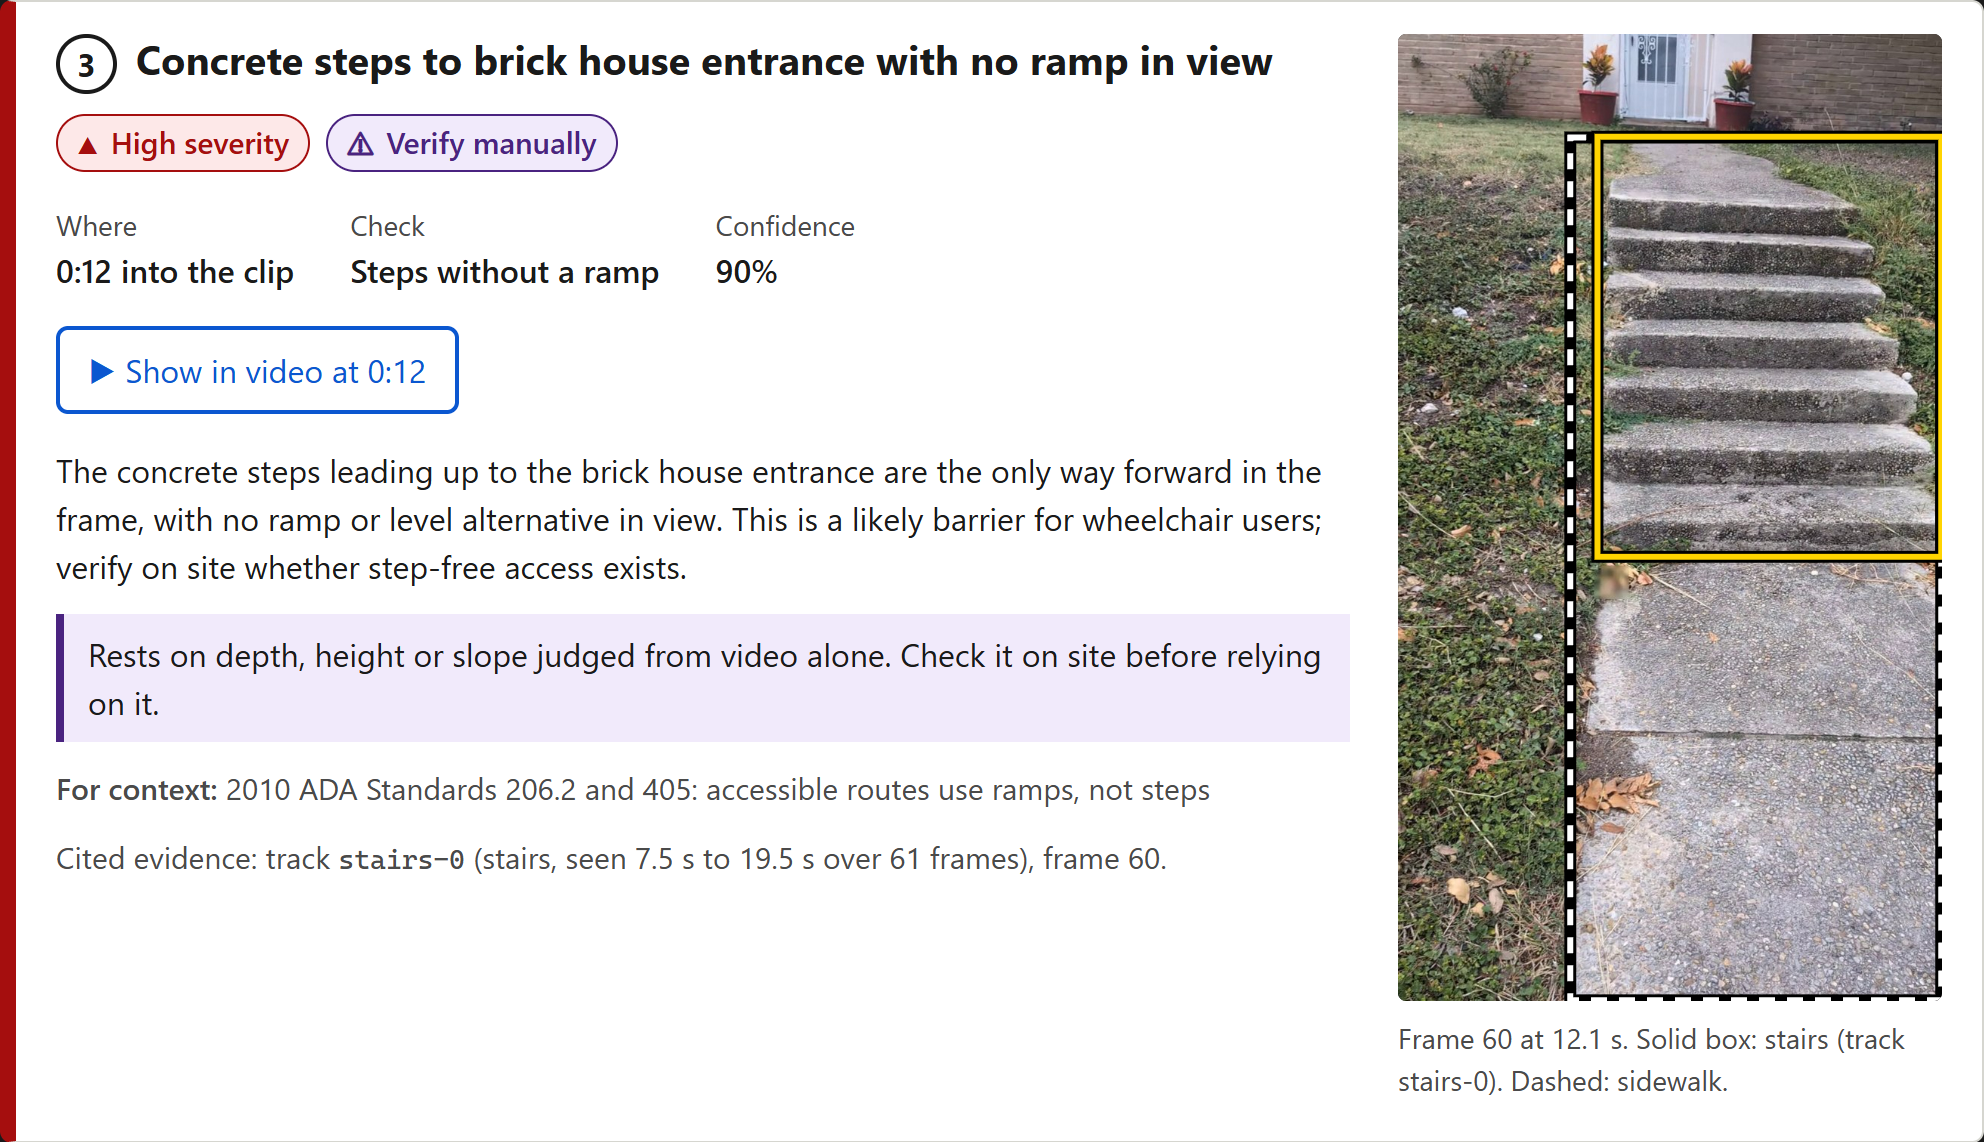
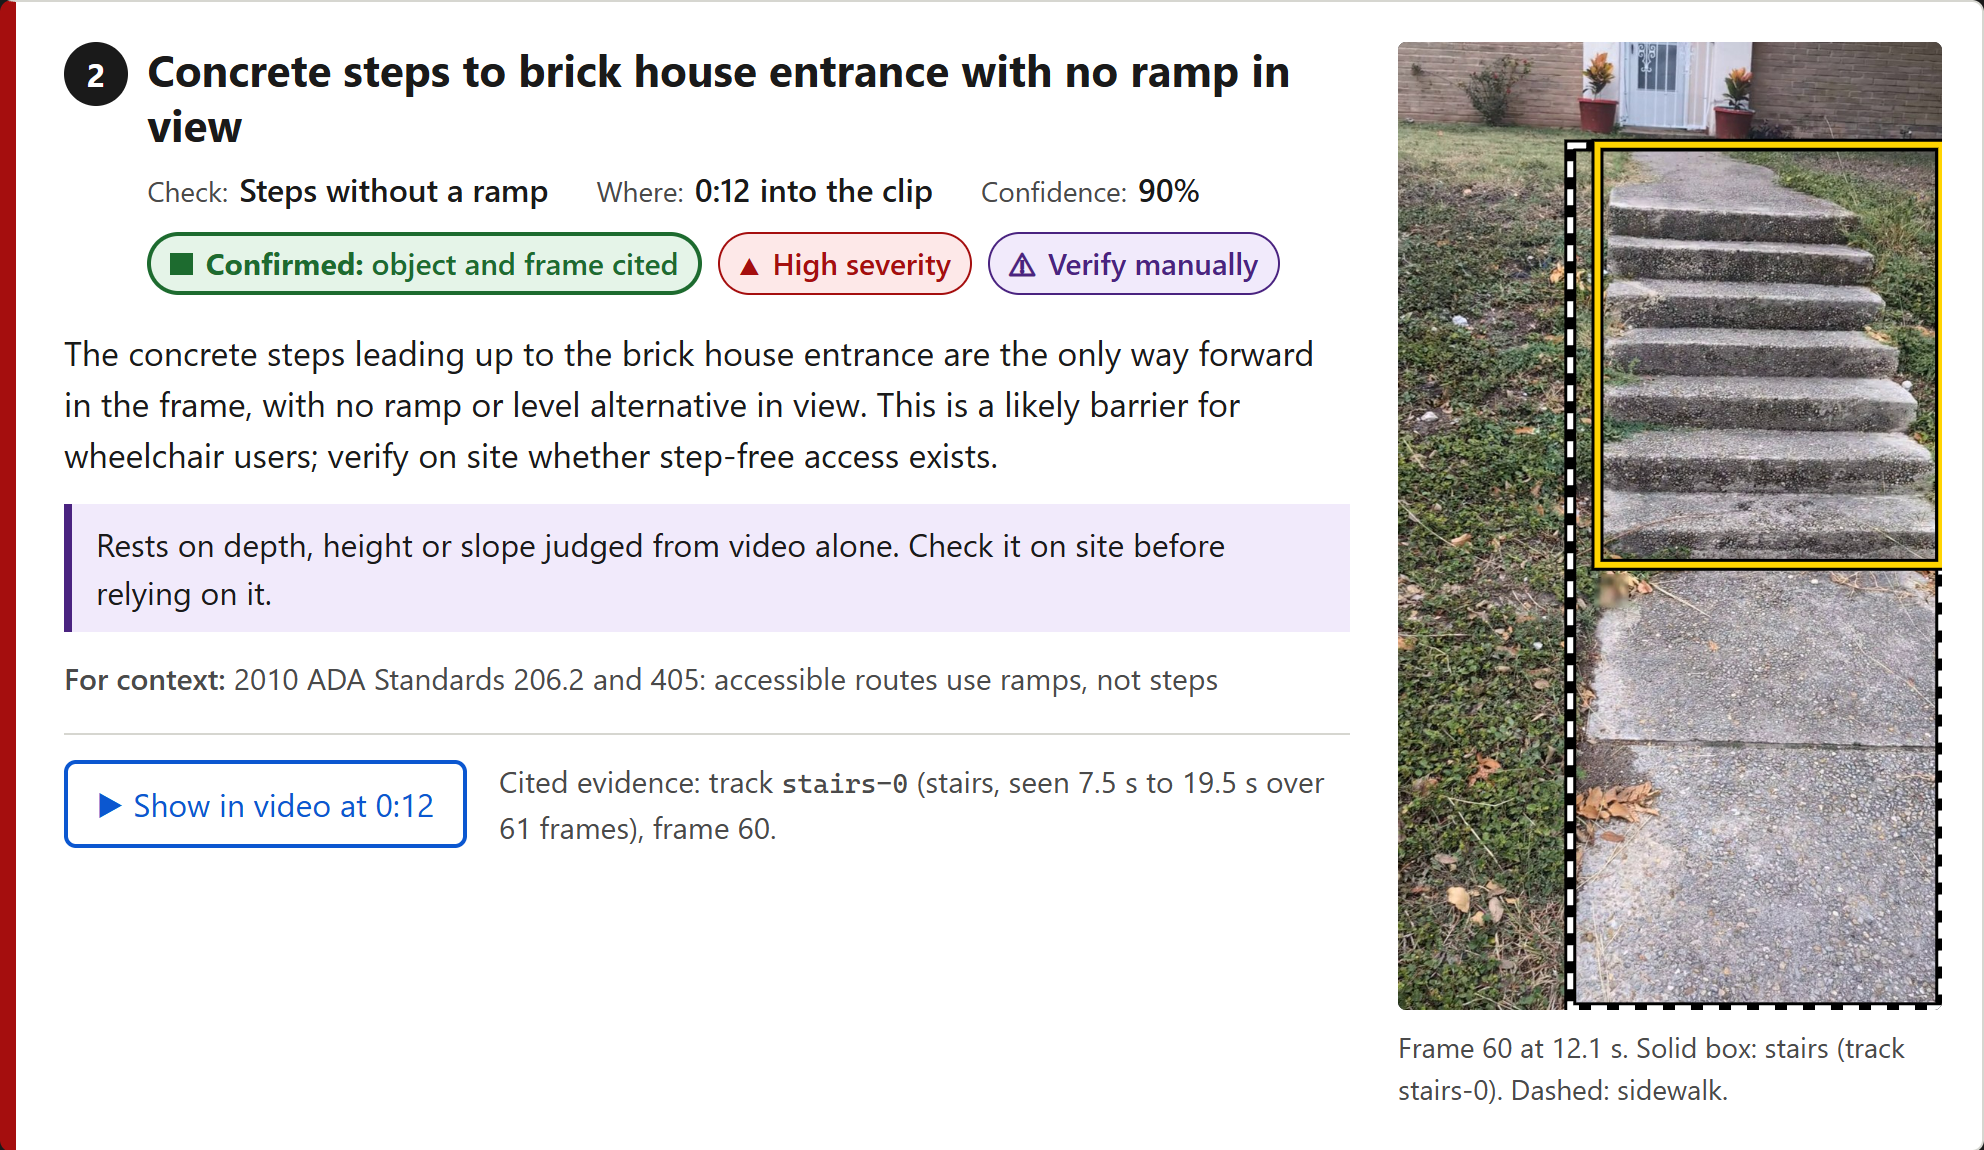
Health reports the review stage's model; README screenshot on the new finding card
/api/health said baseten / Muse Spark Open even though the two-tier review runs
on Muse Spark 1.3. review.review_model() now names the host and model of the
selected review. PROGRESS: d10-tier-badge and d10-merge-b done, d10-footer-label open.

Changed region(s): [[0.0312, 0.0306, 0.6562, 0.7662], [0.6875, 0.0306, 1.0, 0.9807], [0.5, 0.1532, 0.625, 0.1839]]

diff --git a/backend/accesswalk/review.py b/backend/accesswalk/review.py
@@ -21,7 +21,7 @@ import os
 from collections.abc import Callable
 from pathlib import Path
 
-from . import baseline, combine, grounded, hybrid
+from . import baseline, combine, grounded, hybrid, llm
 from .agent import CONFIGS, AgentContext, run_agent
 from .ingest import DEFAULT_OUT_ROOT
 from .inventory import render_frames
@@ -132,6 +132,17 @@ def selected() -> str:
     if name not in REVIEWS:
         raise ValueError(f"ACCESSWALK_REVIEW={name!r}; use one of {sorted(REVIEWS)}")
     return name
+
+
+OPEN_REVIEWS = {"open", "hybrid-open"}  # every model call on Muse Spark Open (Baseten, Fireworks failover)
+
+
+def review_model(name: str | None = None) -> tuple[str, str]:
+    """(provider, model) the named review runs on, for /api/health."""
+    if (name or selected()) in OPEN_REVIEWS:
+        p = llm.providers_from_env()["baseten"]
+        return p.name, p.model
+    return llm.CLOSED_PROVIDER, llm.CLOSED_MODEL
 
 
 def run_review(ctx: AgentContext, out_root: Path = DEFAULT_OUT_ROOT, budget: float = 0.5,

diff --git a/backend/accesswalk/api.py b/backend/accesswalk/api.py
@@ -27,7 +27,7 @@ from fastapi import FastAPI, File, Form, Request, UploadFile
 from fastapi.middleware.cors import CORSMiddleware
 from fastapi.responses import FileResponse, JSONResponse
 
-from . import jobs, llm, sam
+from . import jobs, review, sam
 from .api_models import (
     MAX_DURATION_S,
     MAX_UPLOAD_MB,
@@ -86,8 +86,8 @@ def create_app(
 
     @app.get("/api/health", response_model=Health)
     def health() -> Health:
-        p = llm.providers_from_env()["baseten"]
-        return Health(ok=True, agent_provider=p.name, agent_model=p.model, sam_model=sam.MODEL,
+        provider, model = review.review_model()  # the shipped two-tier review runs on Muse Spark 1.3
+        return Health(ok=True, agent_provider=provider, agent_model=model, sam_model=sam.MODEL,
                       uploads="passcode" if os.getenv("ACCESSWALK_UPLOAD_PASSCODE") else "open")
 
     @app.post("/api/jobs", response_model=JobStatus, status_code=202)

diff --git a/backend/tests/test_api.py b/backend/tests/test_api.py
@@ -53,10 +53,13 @@ def _client(tmp_path, pipeline=fake_pipeline):
     return TestClient(app)
 
 
-def test_health(tmp_path):
+def test_health(tmp_path, monkeypatch):
+    monkeypatch.delenv("ACCESSWALK_REVIEW", raising=False)
     body = _client(tmp_path).get("/api/health").json()
     api_models.Health.model_validate(body)
-    assert body["ok"] and body["agent_provider"] == "baseten"
+    assert body["ok"] and (body["agent_provider"], body["agent_model"]) == ("meta", "muse-spark-1.3")
+    monkeypatch.setenv("ACCESSWALK_REVIEW", "open")  # the open-weight agent, kept for comparison
+    assert _client(tmp_path / "open").get("/api/health").json()["agent_provider"] == "baseten"
 
 
 def test_job_lifecycle_to_report(tmp_path, tiny_mp4):

diff --git a/backend/accesswalk/api_models.py b/backend/accesswalk/api_models.py
@@ -52,8 +52,8 @@ UploadMode = Literal["open", "passcode"]
 class Health(BaseModel):
     ok: bool
     api_version: str = API_VERSION
-    agent_provider: str  # primary host, e.g. "baseten"
-    agent_model: str  # e.g. "meta-models/muse-spark-open-1026"
+    agent_provider: str  # review host: "meta" (two-tier, default) or "baseten" (ACCESSWALK_REVIEW=open)
+    agent_model: str  # e.g. "muse-spark-1.3" or "meta-models/muse-spark-open-1026"
     sam_model: str
     # "passcode": POST /api/jobs needs the form field ``passcode`` (the deployed demo server)
     uploads: UploadMode = "open"

diff --git a/PROGRESS.md b/PROGRESS.md
@@ -84,10 +84,11 @@ Task list for Claude Code sessions. IDs match the owner's tracker: never rename 
 - [x] `d10-closed-exp` Best-pipeline search, open-weight requirement dropped: E1-E7 on all 22 clips (agent on Muse Spark 1.3, one-call grounded review x2, hybrid on Spark 1.3, two-tier, deeper agent, ensemble), frozen e1-e7 (Eval, A) -- two-tier (e4) wins: 79% recall, 97% precision
 - [x] `d10-two-tier` Two-tier review is the default pipeline (`review.DEFAULT_REVIEW`, `Finding.tier`, verdict from confirmed findings, raw-pass prompt pinned), demo route re-run and pinned (Pipeline, A) -- replays at $0 on raw clip, twin and bundle-only
 - [ ] `d10-deploy-two-tier` Upload the bundle, `modal run` offline check, `modal deploy` (Demo, You) -- the volume upload was refused by the session's permission check; commands in the log
-- [ ] `d10-tier-badge` Report page: show `tier == "possible"` findings as "possible" (badge, count) (Frontend, B)
+- [x] `d10-tier-badge` Report page: show `tier == "possible"` findings as "possible" (badge, count) (Frontend, B) -- eee0826, merged 2f3af41; also the landing hero (/media/showcase/hero.mp4) and findings layout; Lighthouse a11y 100 (Session B3)
 - [x] `d10-docs-shipped` CLAUDE.md for the shipped design: two-tier review on Muse Spark 1.3 is the default, Muse Spark Open via `ACCESSWALK_REVIEW=open`, open-weight bonus not targeted (Setup, A)
 - [x] `d10-readme-media` README for visuals: docs/media/ and four slots at the top (hero GIF, how-it-works image, results card, SAM-tracks / report two-column row); text rewritten as what it does / how it works / results (Docs, A) -- owner's renders from data/out/showcase/final/ (blurred proxy) copied; report-finding.png is a headless-Chromium screenshot of the pinned demo report; landing hero.mp4 served at /media/showcase/hero.mp4 and staged in the bundle
-- [ ] `d10-merge-b` Merge Session B's final branch, rebuild frontend/dist, re-stage the deploy bundle, hand over deploy commands (Demo, A)
+- [x] `d10-merge-b` Merge Session B's final branch, rebuild frontend/dist, re-stage the deploy bundle, hand over deploy commands (Demo, A) -- 2f3af41; dist built with the sample pin; bundle 107.4 MB
+- [ ] `d10-footer-label` Upload page footer still says "(open-weight review agent)" next to health.agent_model (now muse-spark-1.3 via meta) (Frontend, B)
 - [ ] `d10-fixes` Final fixes (Pipeline)
 - [ ] `d10-submit` Submit by 5 PM CT (deadline 8 PM CT) (Demo, You)
 - [ ] `d10-postx` Post the demo on X (Most Viral, engagement through Nov 8) (Demo, You)
@@ -190,3 +191,4 @@ baseline 67%. Gaps of 1-2 barriers are within run-to-run noise at n=15.
 - 2026-11-04 night (Session A2): d10-closed-exp, d10-two-tier. Merged hybrid-proposals (d52be32). Meta chat completions verified for Spark 1.3 (temperature 0, tools + images, 100 images per request, `video_url` data URL). New: agent.AgentConfig/CONFIGS, grounded.py, combine.py, review.py (ACCESSWALK_REVIEW, default two-tier), run_grounded_batch.py, combine_runs.py; reports carry each call's cost also on cache hits; render_frames atomic; usage.jsonl appends locked. Raw-video pass pinned to the questions baseline-v1 used (RAW_PASS_QUESTIONS) so the shipped pass equals the scored one and replays. Verdict rates from confirmed findings only. Demo report 1d1f644433dc-20261104T060929 pinned (old one kept as reports_prev/…v2-open.json and staged under that name so the live sample link survives until redeploy); frontend rebuilt with VITE_SAMPLE_REPORT_ID=1d1f644433dc-20261104T060929; bundle staged (103.5 MB, blurred media + caches only), bundle-only replay ok (37 calls, 0 uncached). Not done: `modal volume put` refused by the permission check, so `modal run` offline check not run either. README Evaluation rewritten. Backend 156 tests, frontend 55, ruff clean. Nothing pushed, no modal deploy.
 - 2026-11-04 (Session A2): pipeline frozen (d9-freeze). d10-docs-shipped: CLAUDE.md bonus targets (open-weight not targeted), pipeline block (two-tier review: Spark 1.3 agent → confirmed, video pass → possible; verdict from confirmed), Spark 1.3 as the shipped model, Fireworks only for ACCESSWALK_REVIEW=open, docs/media/ in the layout. d10-readme-media: README top rewritten (what it does, how it works, results: 79%/97% vs 64%/95% video-only, indicative) with four commented-out image slots; docs/media/README.md lists the files and the blurred-only rule. No model calls. Waiting on: Session B's branch (d10-merge-b), owner's showcase renders.
 - 2026-11-04 (Session A2): d10-readme-media done. docs/media/: hero.gif, pipeline.png, results.png, sam-tracks-steps.gif, sam-tracks-slab.gif (owner renders, checked frame by frame: no face, plate or house number readable) and report-finding.png (local frontend/dist + API, headless Chromium over CDP, #finding-f3; no model calls). README slots uncommented; rendered locally, all 6 images load from relative paths. API: GET /media/showcase/<name> (fixed pattern, <media_root>/showcase/) for Session B's landing hero; data/cache/showcase/hero.mp4 placed; deploy_bundle stages it. Backend 157 tests, ruff clean. Waiting on Session B's branch (d10-merge-b).
+- 2026-11-04 (Session A2): d10-merge-b. Merged Session B3 eee0826 (d10-tier-badge, landing hero) as 2f3af41; frontend 73 tests (3 skipped), tsc and oxlint pass; backend 157, ruff clean. /api/health now reports the review stage's model (meta / muse-spark-1.3 for two-tier; baseten for ACCESSWALK_REVIEW=open) instead of always Baseten. dist rebuilt with VITE_SAMPLE_REPORT_ID=1d1f644433dc-20261104T060929 (--mode http) and smoke-tested locally (health, hero 206, landing, confirmed and possible cards); README report-finding.png retaken on the new card design. Bundle re-staged (107.4 MB, + cache/showcase/hero.mp4 and the old v2 report). Open: footer label (d10-footer-label, asked B3). Not done: volume upload, modal run, modal deploy (owner).
